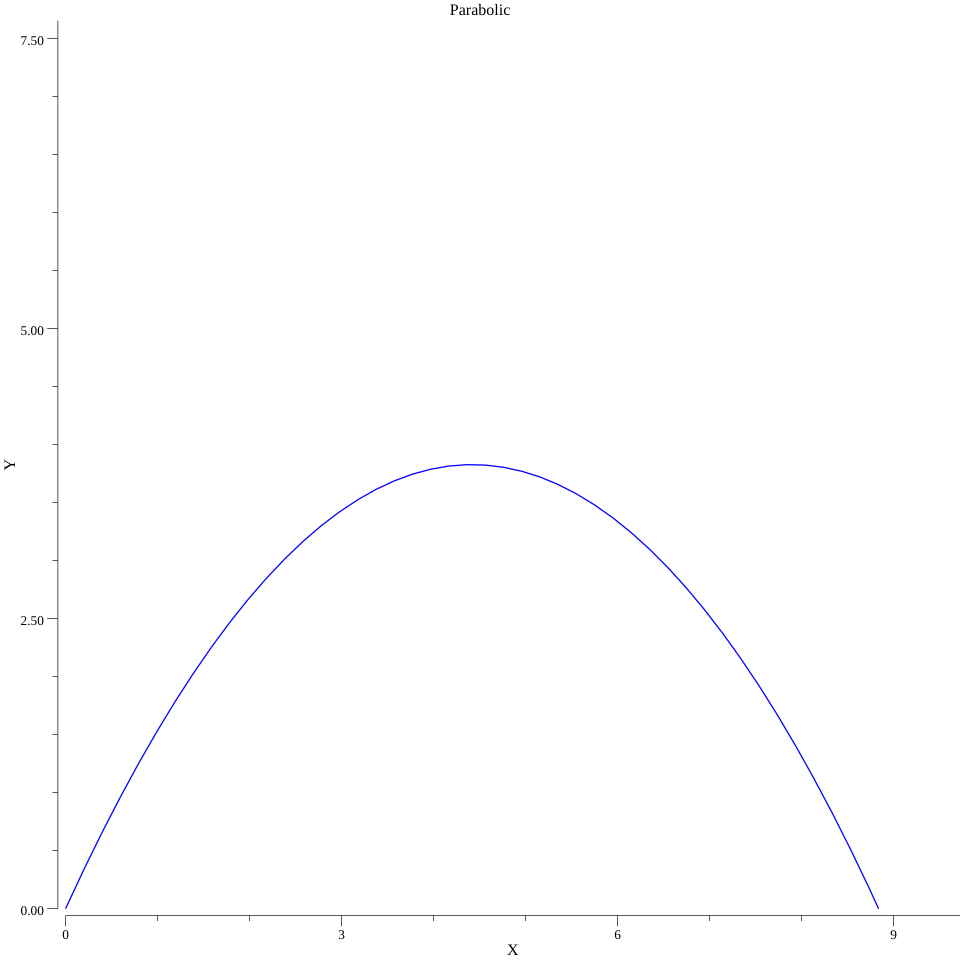
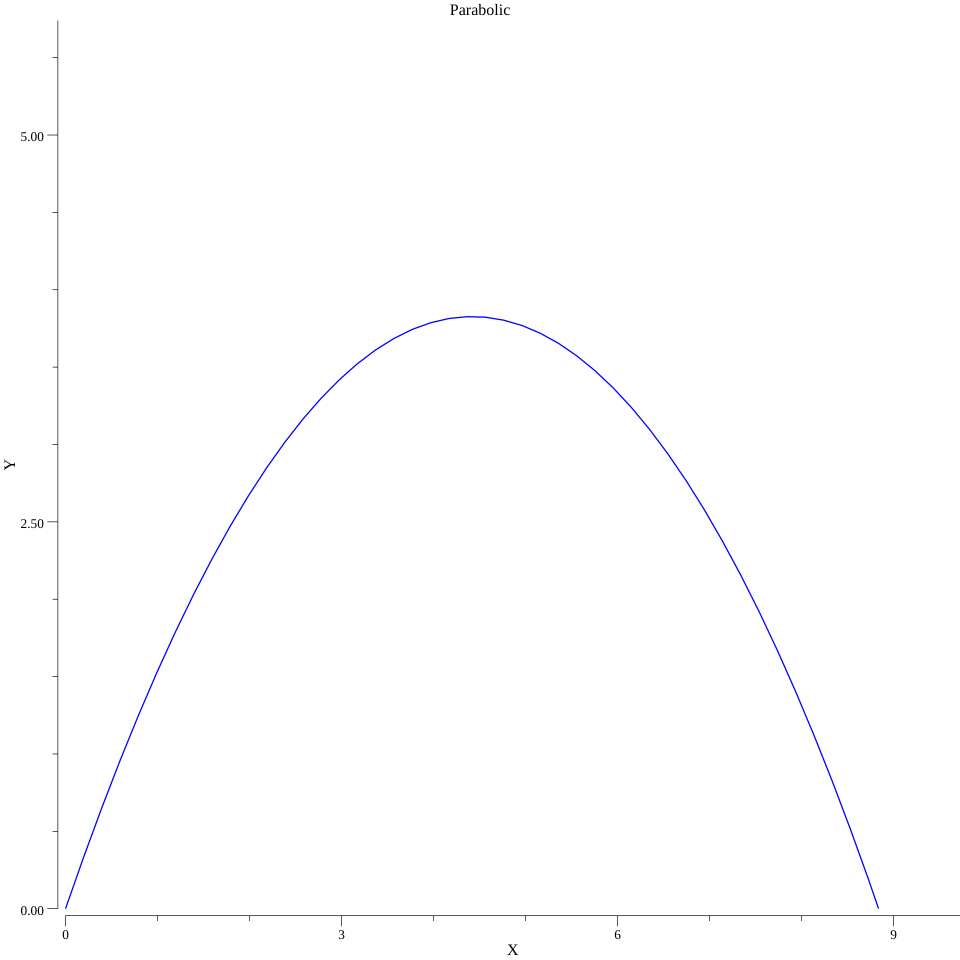
Change plot image

diff --git a/app/parabolic/main.go b/app/parabolic/main.go
@@ -37,7 +37,7 @@ func main() {
 	p.X.Min = 0
 	p.X.Max = prbl.MaxX() * 1.1
 	p.Y.Min = 0
-	p.Y.Max = prbl.MaxY() * 2
+	p.Y.Max = prbl.MaxY() * 1.5
 
 	// Save the plot to a SVG file.
 	if err := p.Save(10*vg.Inch, 10*vg.Inch, "parabolic.svg"); err != nil {
